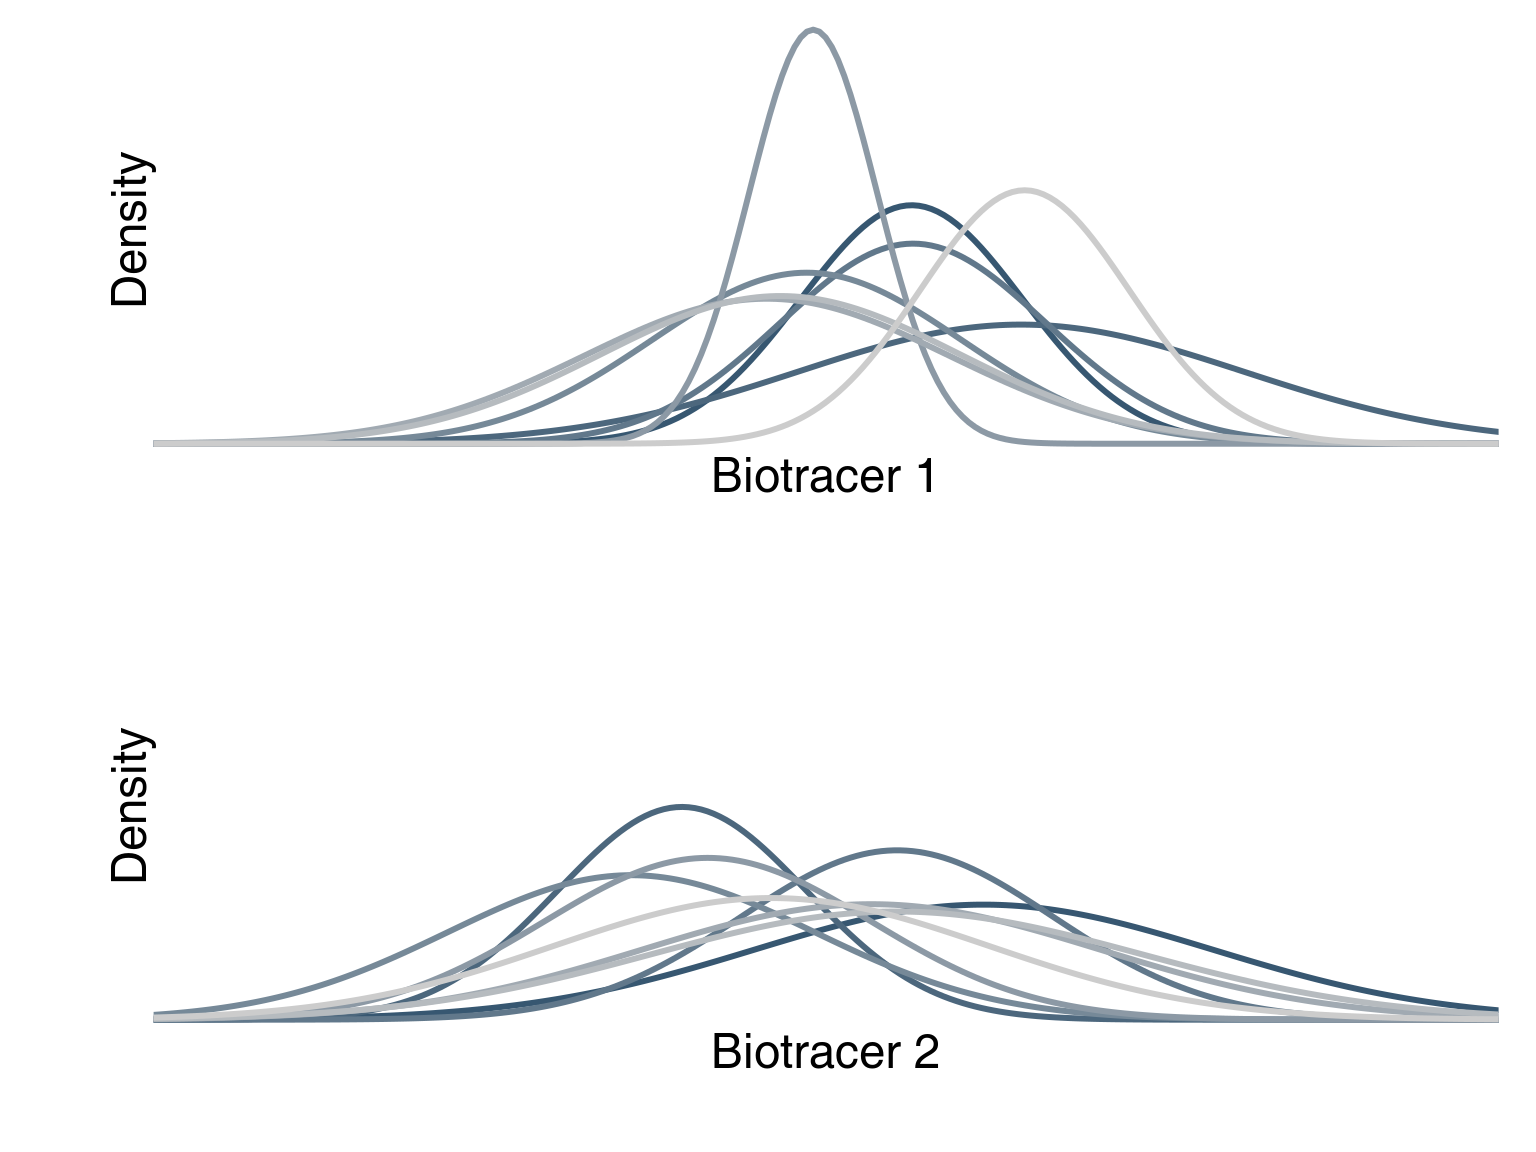
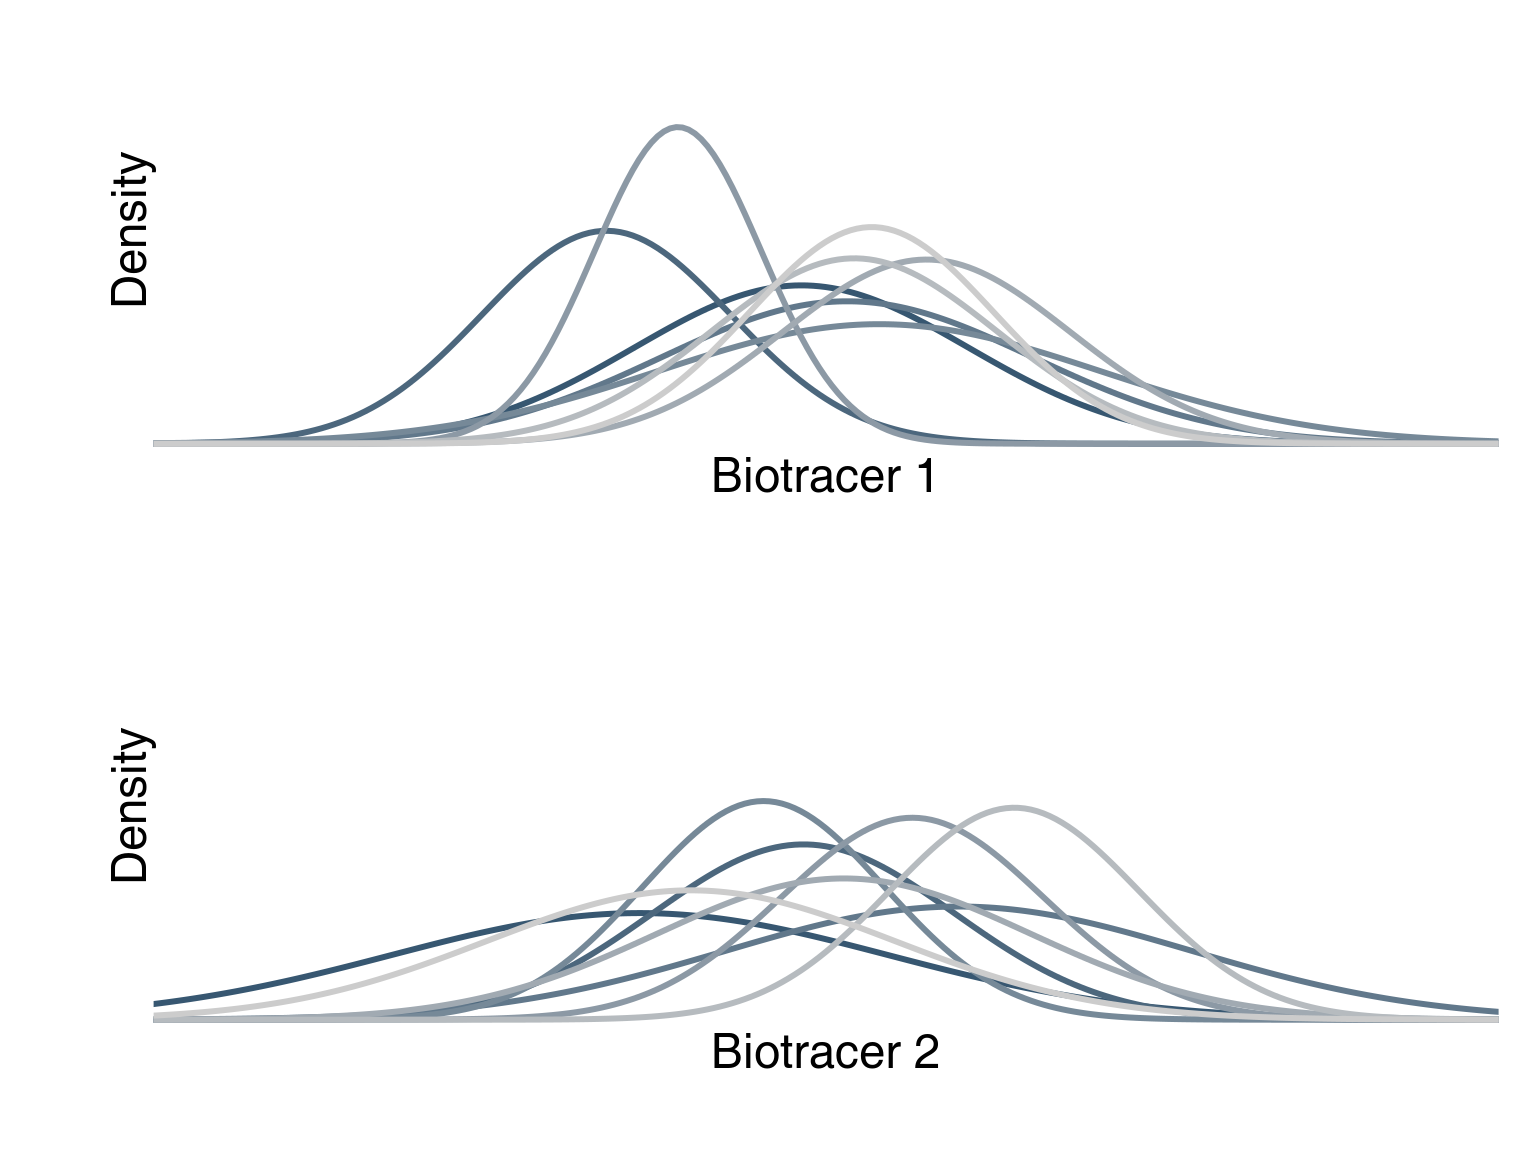
add figMu

diff --git a/index.html b/index.html
@@ -268,7 +268,11 @@ class: inverse, center, middle
 
 - `\(S_{n}\)` Sample of size `\(n\)`
 
-- `\([O_i|S_{n}]\)`: Probability the sample is from `\(O_i\)` given the sample.
+- `\([O_i|S_{n}]\)`: Probability the sample is from `\(O_i\)` given the sample - .alert[unknown]
+
+- `\([S_{n}|Oi]\)`: Likelihood - .alert[known distributions (1, 2, ... dimensions)]
+
+--
 
 - .alert[Assumptions]:
 
@@ -281,11 +285,65 @@ class: inverse, center, middle
 
 
 ---
-# Results - dissimilarity
+# What does the theory say?
 
 &lt;br&gt;
 
-.center[![:scale 90%](img/fig_theo1.png)]
+- Multinormal
+- Increasing sample size
+- Sample if from 1
+
+
+
+
+---
+# Results - dissimilarity
+&lt;br&gt;
+
+.center[![:scale 92%](img/FigMu1.png)]
+
+
+---
+# Results - dissimilarity
+&lt;br&gt;
+
+.center[![:scale 92%](img/FigMu2.png)]
+
+---
+# Results - dissimilarity
+&lt;br&gt;
+
+.center[![:scale 92%](img/FigMu3.png)]
+
+---
+# Results - dissimilarity
+&lt;br&gt;
+
+.center[![:scale 92%](img/FigMu4.png)]
+
+
+---
+# Results - dissimilarity
+&lt;br&gt;
+
+.center[![:scale 92%](img/FigMu5.png)]
+
+
+---
+# Results - dissimilarity
+&lt;br&gt;
+
+.center[![:scale 92%](img/FigMu6.png)]
+
+
+---
+# Results - dissimilarity
+&lt;br&gt;
+
+.center[![:scale 92%](img/FigMu7.png)]
+
+
+
 
 ---
 # Results - dimensionality
